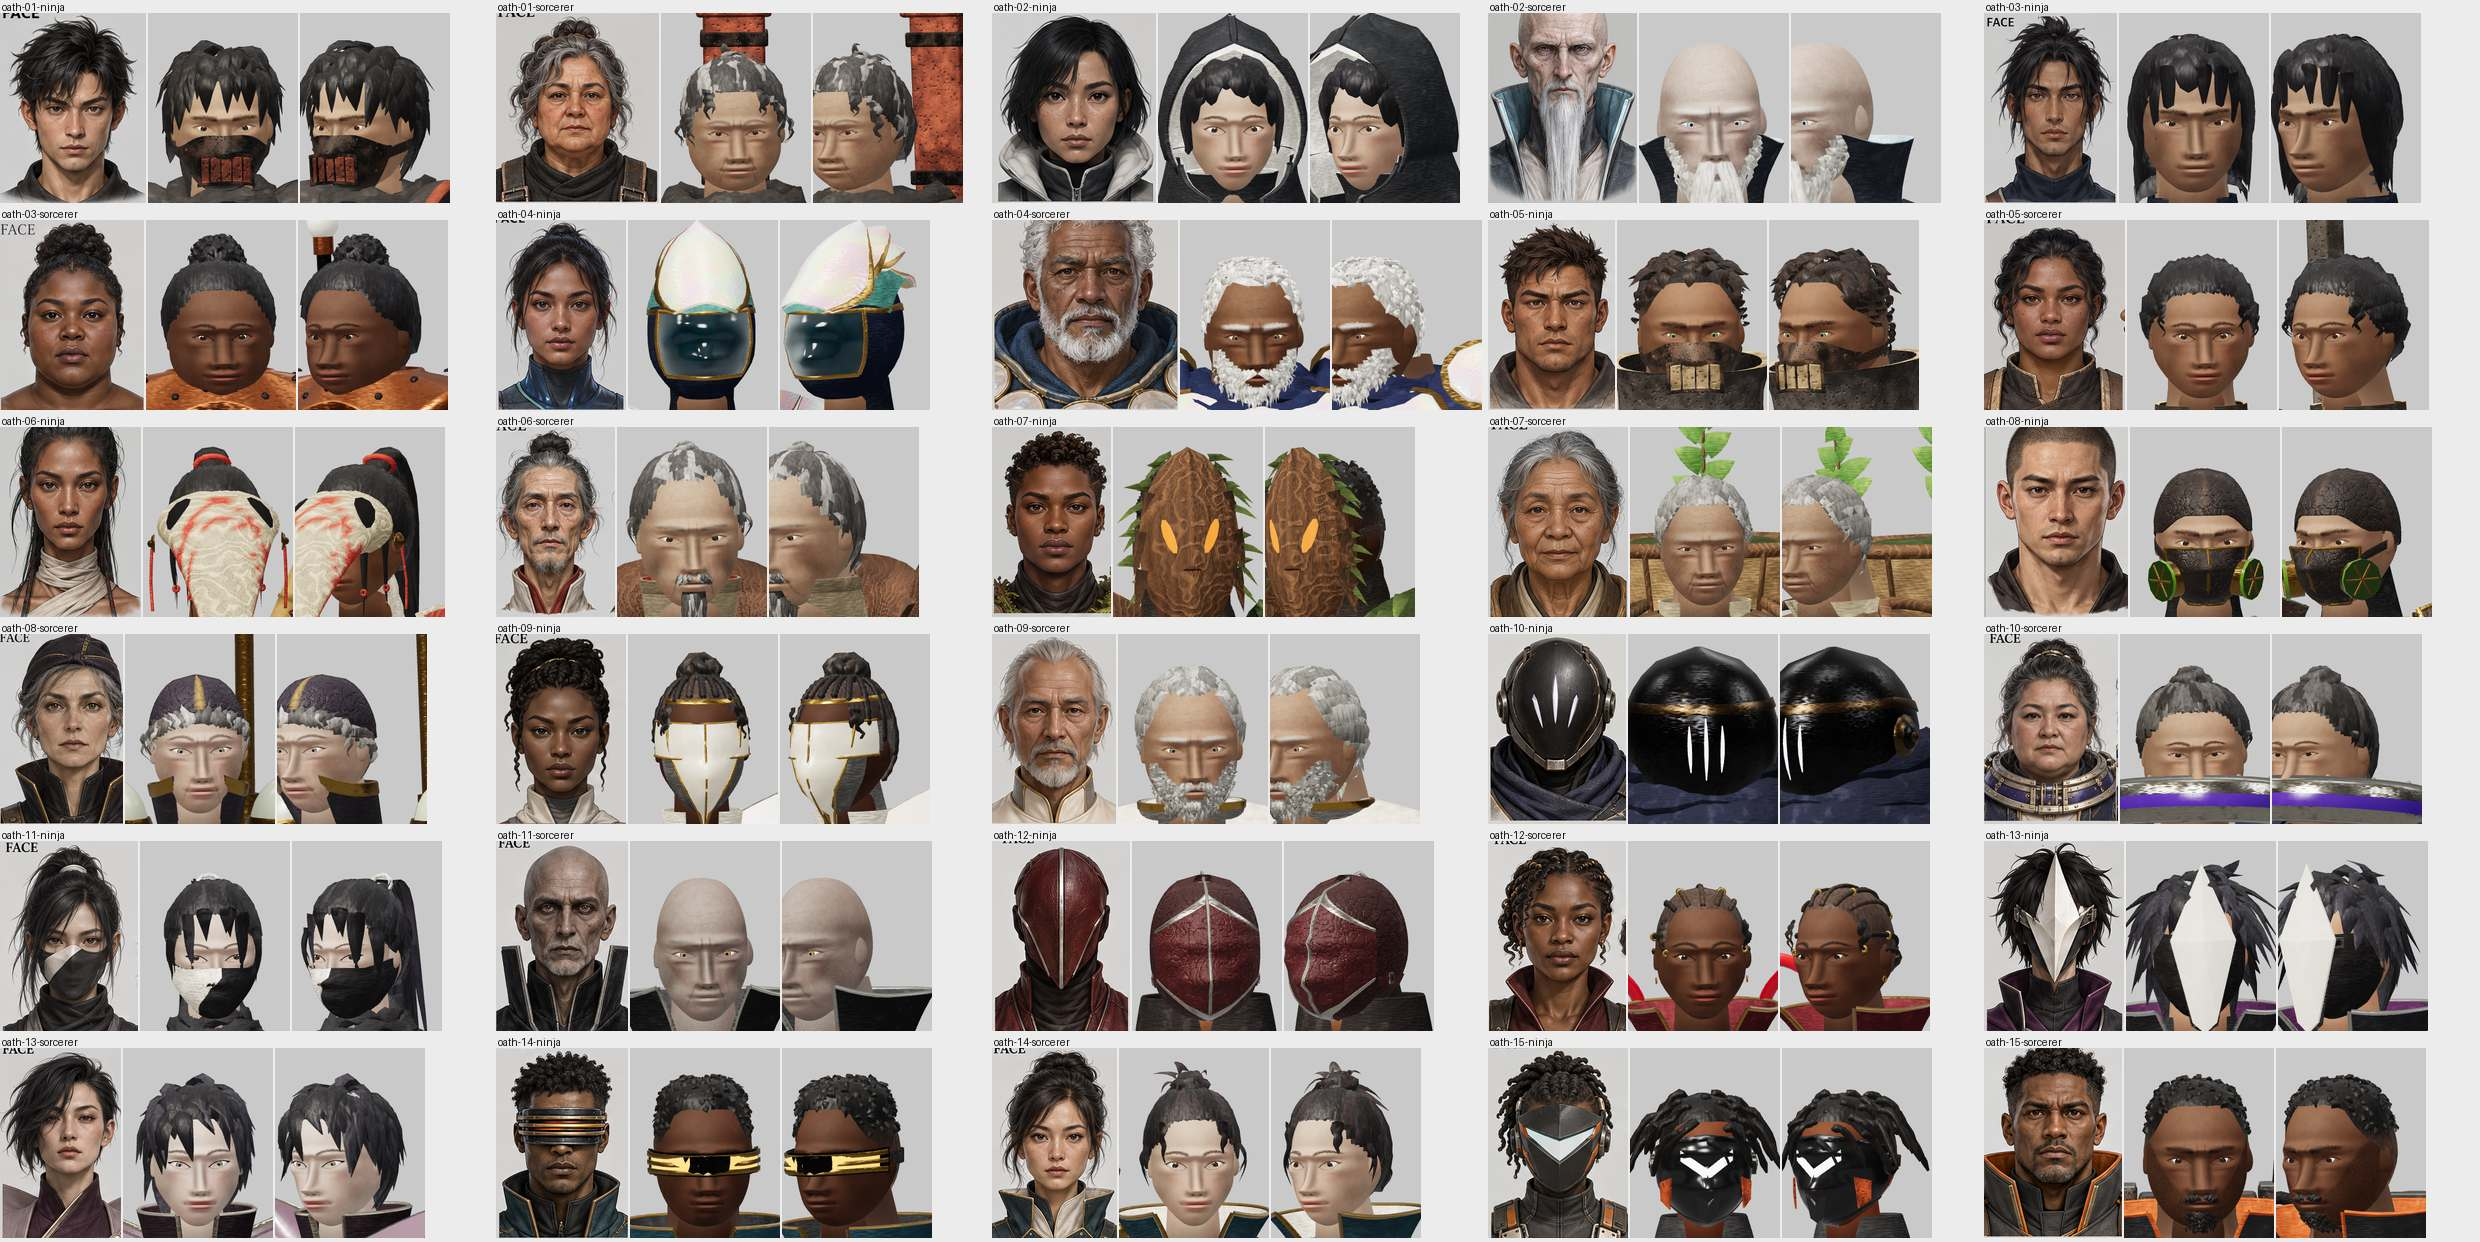
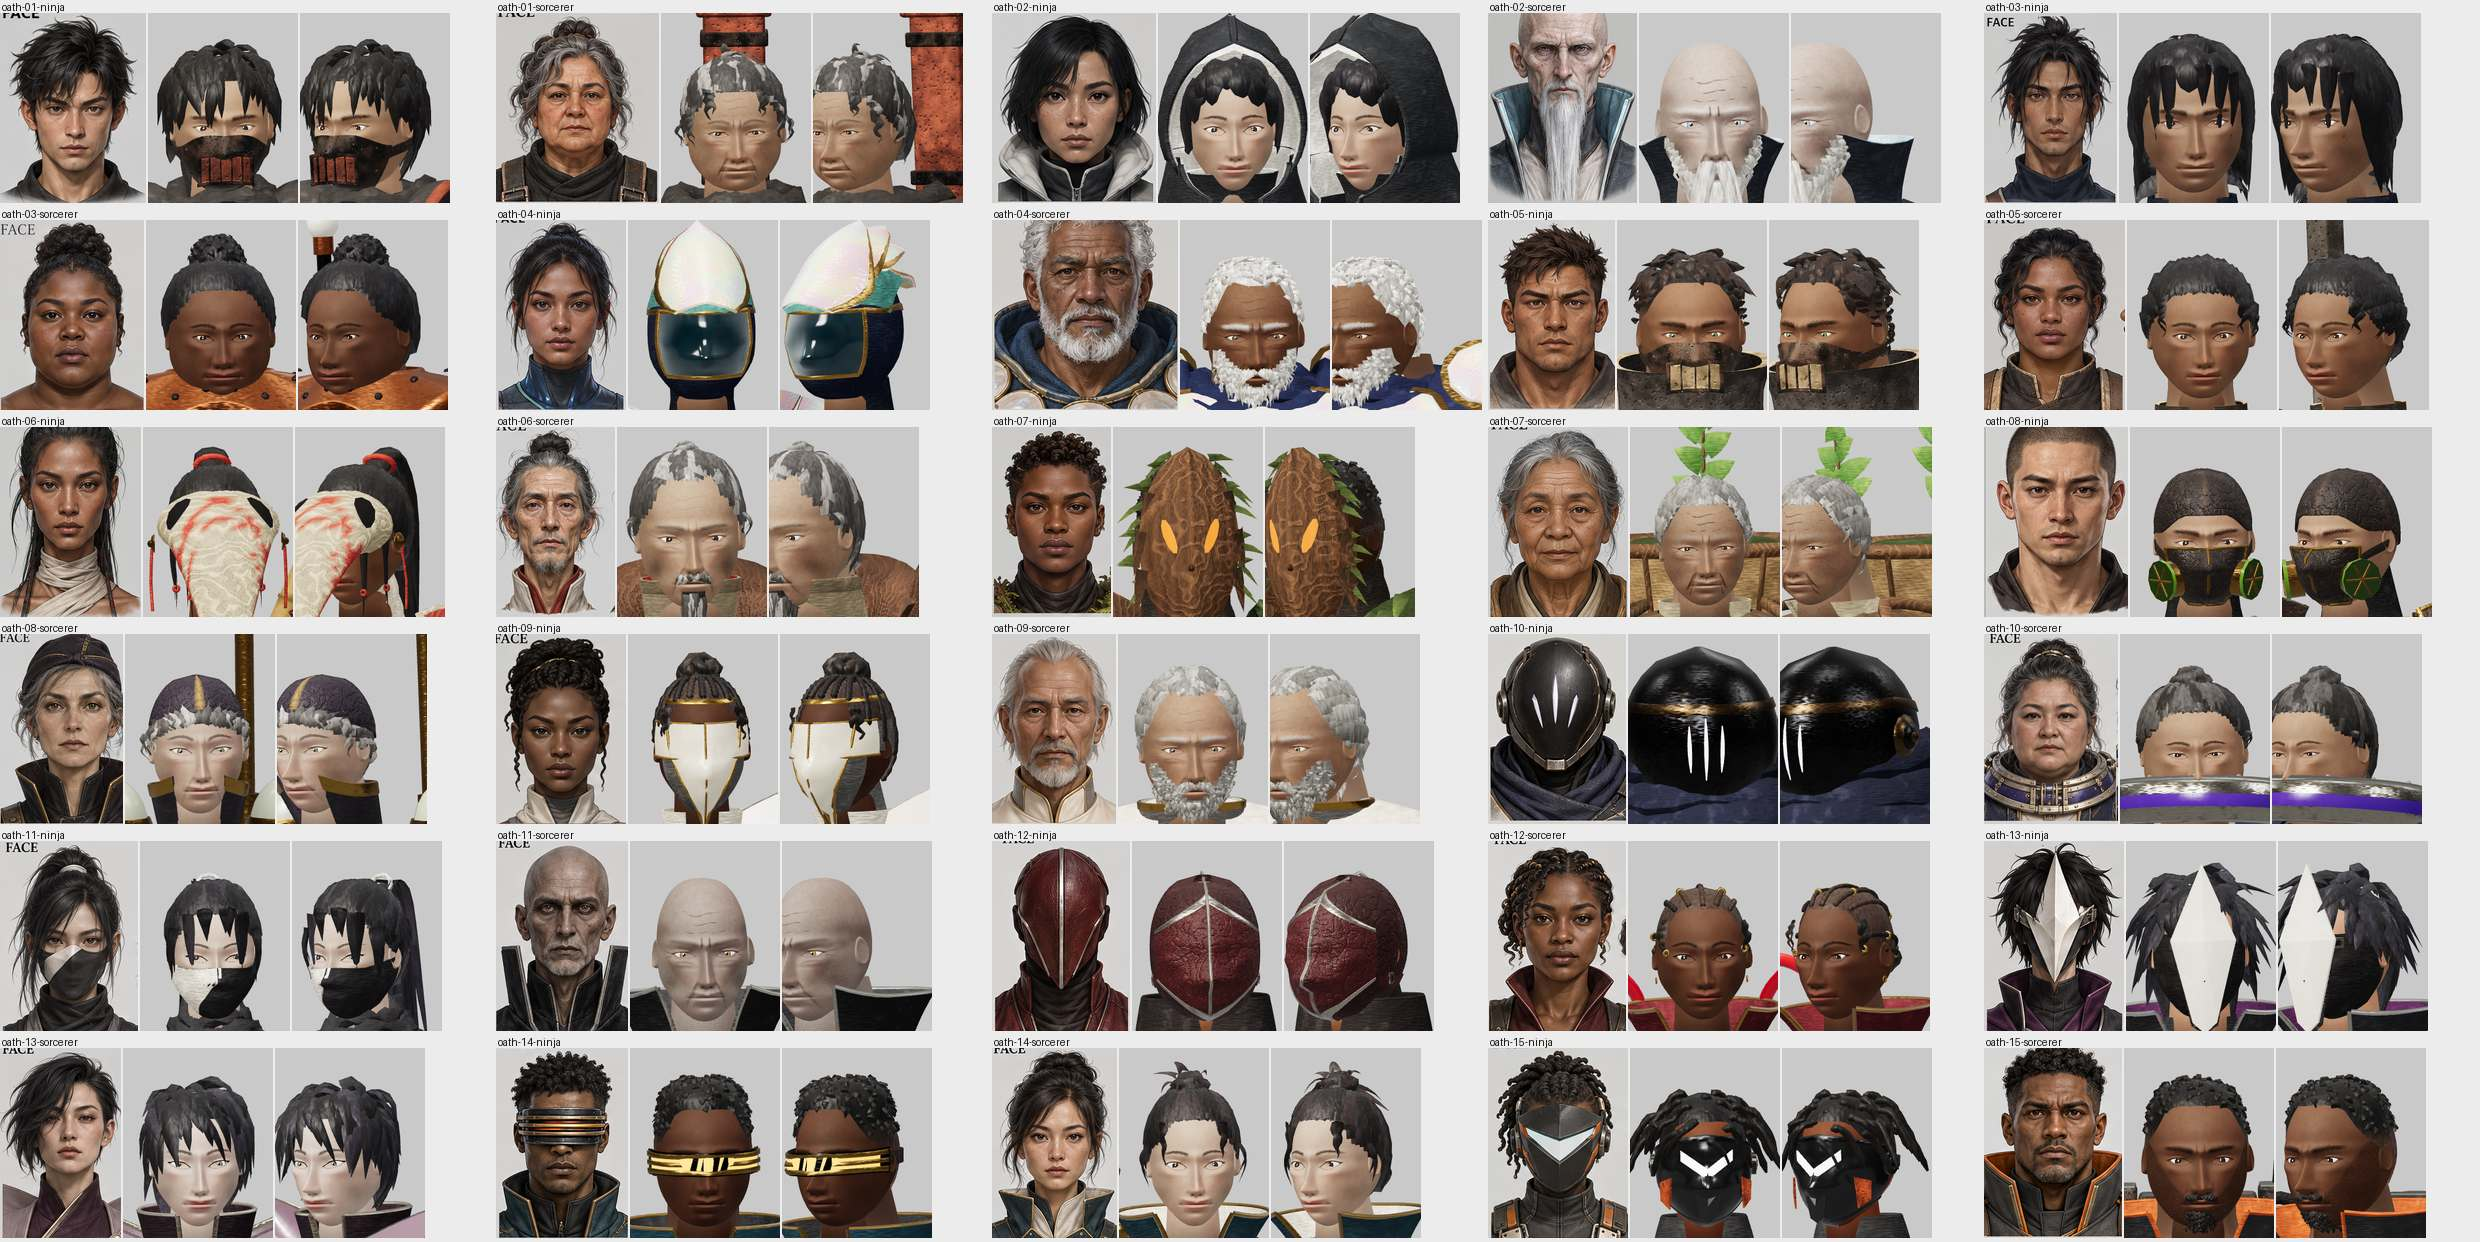
No ridge up the forehead, fuller nose tip; face and front evidence sheets regenerated after the sculpt pass
Claude-Session: https://claude.ai/code/session_01SYnDkjpH2GusYDnF3Uckgg

diff --git a/game/src/three/character/head.js b/game/src/three/character/head.js
@@ -118,10 +118,10 @@ function sheetFace(X, Y, P, opts) {
   if (!opts.noSocket) dz -= .03 * g2((ax - eyeX) / .08, (Y + .002) / .05) + .016 * g2((ax - .078) / .034, (Y - .012) / .04) + .008 * gaunt * g2((ax - eyeX) / .1, (Y + .04) / .05);
   dz += .007 * g2((ax - eyeX) / .07, (Y + .068) / .022) - .006 * old * g2((ax - eyeX * .92) / .07, (Y + .092) / .014);
   // nose: a rounded ridge from the nasion to the tip, the bulb, the wings and the nostrils under them
-  const t = sm(.06, -.175, Y), ridge = (.014 + .082 * t ** 1.2) * P.nose * sm(-.235, -.19, Y);
+  const t = sm(.06, -.175, Y), ridge = (.014 + .086 * t ** 1.15) * P.nose * sm(-.235, -.19, Y) * sm(.12, .03, Y);
   dz += ridge * Math.exp(-((ax / ((.021 + .016 * t) * (.6 + .4 * nw))) ** 2.2));
   dz += .012 * (P.bridge ?? 0) * g2(X / .028, (Y + .04) / .045);
-  dz += (.04 + .014 * (P.tip ?? 0)) * P.nose * g2(X / (.04 * nw), (Y + .172) / .034);
+  dz += (.046 + .014 * (P.tip ?? 0)) * P.nose * g2(X / (.042 * nw), (Y + .176) / .036);
   const wing = g2((ax - .054 * nw) / .024, (Y + .192) / .026); dz += .03 * wing; dx += sgn * .008 * wing;
   dz -= .014 * g2((ax - .028 * nw) / .014, (Y + .218) / .01) + .012 * g2((ax - .085 * nw) / .014, (Y + .185) / .03);
   // cheekbone, the apple of the cheek, the hollow under it

diff --git a/docs/upgrades/CHARACTERS_FROM_SHEETS.md b/docs/upgrades/CHARACTERS_FROM_SHEETS.md
@@ -545,6 +545,16 @@ Honest judgement, hero by hero (hair / face; "close" = the same kind of person a
 | 15 ninja | close: locs gathered on the crown over shaved sides | hidden by the faceplate |
 | 15 sorcerer | close: short coils, faded sides | close: brown, heavy brow and frown, painted short beard with a small goatee; beard is thinner than painted |
 
+Sculpt pass after review (the first heads read as flat-planed blocks): the sheet face is now built in
+`head.js` `sheetFace` only from smooth blended fields: an arched brow ridge flowing into the nasal bridge, deep orbits
+with a deeper inner corner and a lower-lid roll, a rounded nose ridge with a separate bulb, alar wings and nostril
+hollows, philtrum with its two ridges, an upper lip with a cupid's bow and tubercle, a fuller lower lip, mouth line and
+corners, cheekbone, cheek apple and the hollow under it, nose-to-mouth fold, jowl and marionette fold driven by age,
+chin and the groove above it. The cusp the old superellipse left down the midline is gone. Sheet heads use a denser
+mesh (220x168 high, 136x104 medium, 96x72 low; more triangles than before on every tier), eyelids are rolled shells
+standing off a flatter eyeball with iris, pupil and catchlight, ears have a helix rim and concha. The tousled
+fringe is now pairs of narrow strands of uneven length with rounded tips.
+
 What this is not: the heads are still smooth sculpted forms with painted features, lit by the stage lights. They do
 not have the painted portraits' skin detail, modelling of the eye sockets and lips, or likeness. Seen on screen:
 front and three-quarter close-ups of all 30 on the high tier, idle pose, in `sheet.html`. Not seen: the faces in the
